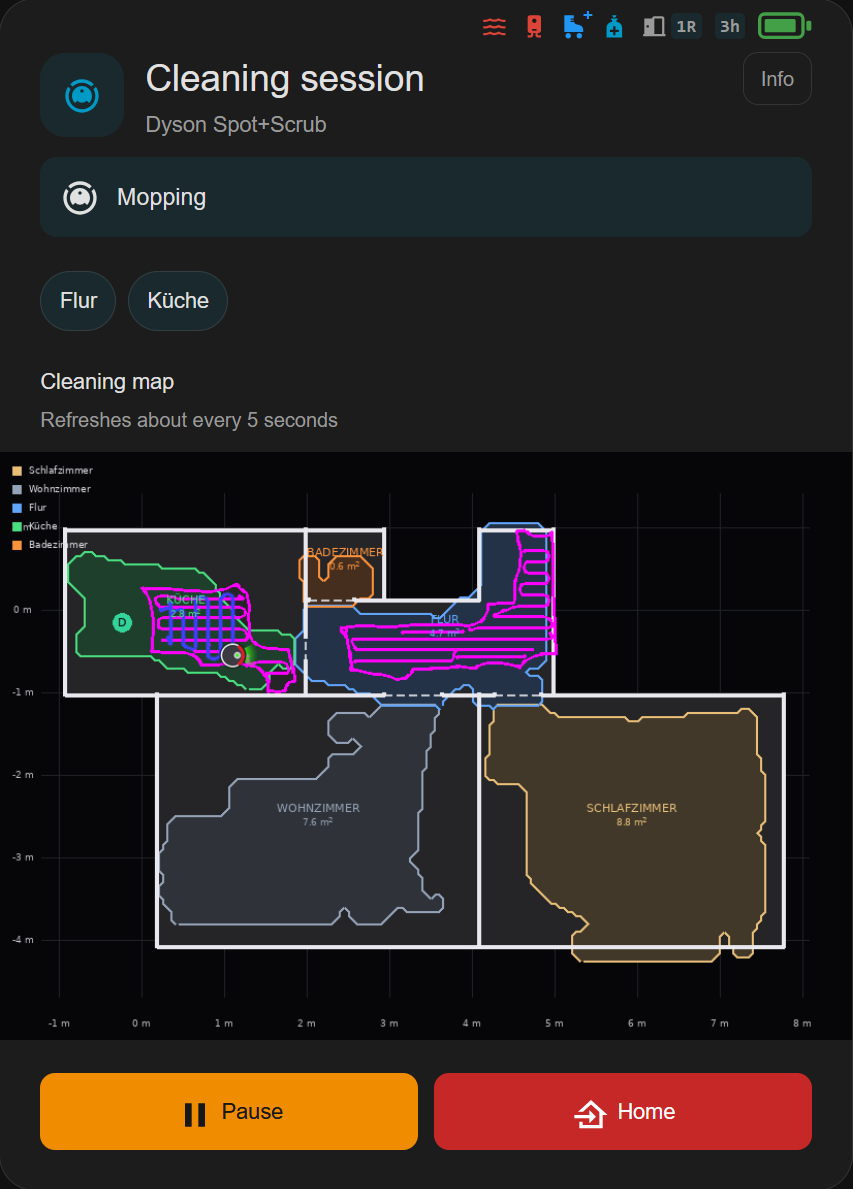
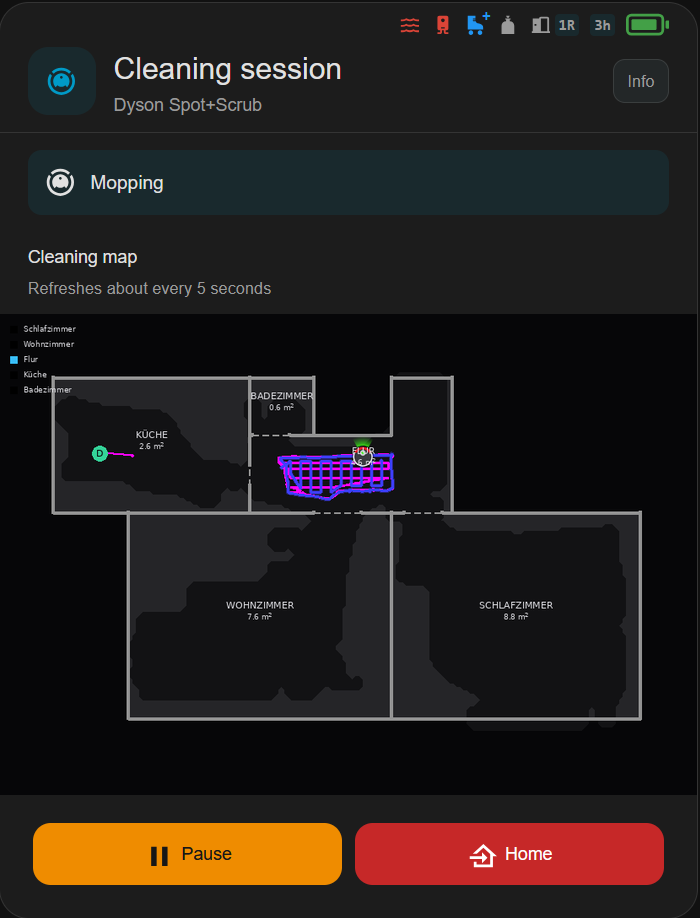
chore(release): prepare v1.4.0 with zone cleaning docs and screenshots

diff --git a/dist/dyson-cleaning-planner-card.js b/dist/dyson-cleaning-planner-card.js
@@ -1,4 +1,4 @@
-/* Dyson Cleaning Planner Card v1.3.0 | MIT */
+/* Dyson Cleaning Planner Card v1.4.0 | MIT */
 // English messages are also stable translation keys. Never use translated labels in action payloads.
 const en = {
   "Cleaning selection": "Cleaning selection",

diff --git a/README.md b/README.md
@@ -15,15 +15,17 @@
 </p>
 
 <p align="center">
-  Plan room cleaning, adjust each room's settings, and follow your Dyson's progress in Home Assistant.
+  Plan room or zone cleaning, adjust cleaning settings, and follow your Dyson's progress in Home Assistant.
 </p>
 
-**Version 1.3.0**
+**Version 1.4.0**
 
 ## Requirements
 
-- [Dyson Spot+Scrub integration by UNsync3D](https://github.com/UNsync3D/ha-dyson-spot-scrub), **v1.5.0 or newer**, installed and configured in Home Assistant.
+- [Dyson Spot+Scrub integration by UNsync3D](https://github.com/UNsync3D/ha-dyson-spot-scrub), **v2.1.0 or newer**, installed and configured in Home Assistant.
 - **Home Assistant Marketplace** for the recommended installation method on Home Assistant **2026.11 or newer**. On older versions, use [HACS](https://www.hacs.xyz/). Manual installation is also supported.
+
+For testing before integration v2.1.0 is released, use the matching [zone-cleaning integration branch](https://github.com/FutuRazor/ha-dyson-spot-scrub/tree/test/zone-cleaning). The regular v2.0.2 build does not provide zone cleaning.
 
 ## Screenshots
 
@@ -35,13 +37,18 @@
 <table>
   <tr>
     <td align="center"><img src="docs/images/planner-narrow.png" alt="Narrow Modern planner with settings expanded inside a room" width="300"><br>Narrow layout</td>
-    <td align="center"><img src="docs/images/cleaning-session.png" alt="Active mopping session with room badges, live map and Pause/Home controls" width="400"><br>Cleaning session</td>
+    <td align="center"><img src="docs/images/cleaning-session.png" alt="Active mopping session with live map and Pause/Home controls" width="400"><br>Cleaning session</td>
   </tr>
   <tr>
     <td align="center"><img src="docs/images/station-settings.png" alt="Station switches, preferences and dock action buttons" width="360"><br>Station settings</td>
     <td align="center"><img src="docs/images/consumables.png" alt="Consumable remaining-life bars and cleaning-solution availability" width="360"><br>Consumables</td>
   </tr>
 </table>
+
+<p align="center">
+  <img src="docs/images/zone-cleaning.png" alt="Zone planner with a movable rectangle and resize handle; Start is disabled while the mop roller is being washed" width="600">
+  <br>Zone cleaning — select a rectangle directly on the map
+</p>
 
 [Try the interactive preview](https://futurazor.github.io/dyson-cleaning-planner-card/preview/index.html). It uses simulated data; no robot is connected.
 
@@ -112,7 +119,7 @@ Update through Marketplace (or HACS on older Home Assistant versions), or replac
 
 ## Using the card
 
-### Plan a clean
+### Plan rooms
 
 In **Modern**, tap the circle to select a room; its number shows the selection order. Tap the room name, mode or arrow to open its settings without changing the selection. **Classic** remains available in the editor.
 
@@ -124,6 +131,14 @@ Changes stay in a local draft until you choose:
 - **Start clean** — start the selected rooms with your chosen settings.
 
 The trash icon beside **Local draft** discards unsaved changes. Reloading the card also clears the draft. Selected room IDs are sent in click order; the integration and robot execute the request. The display order configured in the editor is separate from this selection order.
+
+### Clean a zone
+
+Choose **Zone** below the header to clean a specific area instead of whole rooms. A blue rectangle appears on the map: drag it to move it and use the corner handle to resize it. The handle moves inward near the image edges so it stays reachable.
+
+The button beside Reload shows the current cleaning mode. Open it to choose **Vacuum**, **Vacuum and Mop**, **Mop**, or **Vacuum then Mop**, plus the relevant power, water level and repetitions. Settings stay local until **Start clean**. With **Vacuum then Mop**, **Mop repetitions** controls the wiping passes; vacuuming runs once.
+
+Switching between **Rooms** and **Zone** keeps your local plans. Reload fetches a fresh map and preserves the rectangle when the map and its coordinates are unchanged. Map rotation also applies to zone selection. One rectangular zone is supported at a time; zone cleaning has been hardware-tested on the Spot+Scrub AI, while other models still need confirmation.
 
 ### During and after cleaning
 
@@ -194,6 +209,7 @@ These options belong in the individual card's code editor, not in `configuration
 - The card relies on the integration for room data, robot status and supported actions. Room badges may show the request made from this card; they are not confirmed per-room progress.
 - On upgrade, cards without an explicit `theme` use Modern. Select Classic in the editor to retain the previous layout.
 - After changes to the robot's map, use **Refresh rooms** below the room order in the card editor if needed.
+- Zone selection needs a calibrated camera image from the matching integration. If the image cannot be verified, Start stays disabled. Reload the map; if the problem persists, check the integration version. Installing the regular integration instead of the zone-enabled build leaves the required map information missing.
 - If controls are unavailable, check the corresponding device and entities in Home Assistant and confirm that the required integration version is installed.
 
 

diff --git a/docs/integration-contract.md b/docs/integration-contract.md
@@ -1,8 +1,8 @@
-# Integration contract — card v1.3.0
+# Integration contract — card v1.4.0
 
-This document describes what the **current card actually reads and sends**, based on `src/core.js`, `src/card.js`, `src/editor.js` and `src/map.js`. It is a frontend contract, not a specification of Dyson's MQTT protocol or a guarantee about the integration's internal implementation.
+This document describes what the **current card actually reads and sends**, based on `src/core.js`, `src/card.js`, `src/editor.js`, `src/map.js`, `src/zone.js` and `src/zone-core.js`. It is a frontend contract, not a specification of Dyson's MQTT protocol or a guarantee about the integration's internal implementation.
 
-Both Modern and Classic use this same contract. The documented minimum integration version is **UNsync3D Dyson Spot+Scrub v1.5.0**; optional features require the corresponding entities/actions in the installed version.
+Both Modern and Classic use this same contract. The documented minimum integration version is **UNsync3D Dyson Spot+Scrub v2.1.0**; optional features require the corresponding entities/actions in the installed version.
 
 ## 1. Dependency overview
 
@@ -379,3 +379,29 @@ Cleaning solution displays Ready to use / Refill required; its Enabled/Disabled 
 6. Verify missing optional entities degrade individually. In particular, unavailable registered drying sensors must not resurrect legacy values, and button `unknown` must remain valid.
 7. Check camera proxy images, battery, consumable usage direction, station option updates and dock button availability.
 8. Test concurrent external changes and map changes in the integration. The frontend cannot guarantee transactional updates across the Dyson app, automations or other browsers.
+
+
+## Zone cleaning (v1.4.0)
+
+The planned minimum integration release is v2.1.0. Until it is published with
+zone support, use the matching integration test branch.
+
+- The configured vacuum must expose `map_id` and `ready_to_start: true`.
+- The same-device camera must expose `map_calibration`: version 1, `map_id`,
+  units `m`, positive `image_width`, `image_height`, `pixels_per_metre`,
+  nonnegative `padding`, finite `min_x` and `max_y`, and `image_sha256`.
+- The camera proxy must return the original PNG. The card removes width/height
+  query parameters and verifies the dimensions and SHA-256 before use.
+- `dyson_spot_scrub.clean_zone` receives one `entity_id`, the matching `map_id`,
+  and `rectangle: [x_min, y_min, x_max, y_max]` in robot metres.
+- Settings: `clean_type` is `vacuum`, `vacuumAndMop`, `mop` or `vacuumThenMop`;
+  `cleaning_strategy` is `auto`, `boost`, `quiet` or `quick`; `water_level` is
+  `veryLow`, `low`, `medium` or `high`. The card uses `auto` for Mop and `low`
+  for Vacuum's unused water setting.
+- `mop_passes` is 1 or 2 in every mode; `dry_passes` stays at 1. This mapping
+  follows Spot+Scrub hardware tests. In Vacuum then Mop, repetitions affect
+  only mopping. Other models require separate verification.
+- All zone settings stay local until Start. No room preferences are written,
+  and failed commands are not automatically retried.
+
+See [zone cleaning details](zone-cleaning.md) for geometry and validation.

diff --git a/CHANGELOG.md b/CHANGELOG.md
@@ -1,5 +1,18 @@
 # Changelog
 
+## v1.4.0
+
+- Add Rooms and Zone planning tabs with independent local drafts.
+- Select one movable, resizable rectangle on a verified camera snapshot, including rotated maps and touch controls.
+- Add zone settings for all four cleaning modes, vacuum power, water level and repetitions. Vacuum then Mop exposes mop repetitions and keeps one vacuum pass.
+- Use the Spot+Scrub hardware-verified repetition counter, including two-pass vacuum zone cleaning.
+- Keep the resize handle reachable at image edges and preserve scrolling during map selection.
+- Require matching map calibration and robot readiness before sending a single zone-start action.
+- Normalize build line endings for reproducible Windows/Linux bundles.
+- Refresh planner/session screenshots, add a zone screenshot, and set the planned minimum integration version to v2.1.0.
+
+Release preparation: confirm the upstream integration v2.1.0 release contains the zone action and calibration before publishing. Other models still need hardware confirmation.
+
 ## v1.3.0
 
 - Add English and German translations for the card, visual editor, station settings, consumables, status messages and tooltips.

diff --git a/TESTING.md b/TESTING.md
@@ -1,4 +1,14 @@
-# Testing v1.3.0
+# Testing v1.4.0
+
+## v1.4.0 release acceptance
+
+- Run `npm run check` and `node tests/zone-browser.mjs`; verify the compiled bundle is reproducible.
+- Verify Rooms/Zone draft retention, rotated-map selection, edge-aware resize handles, touch input and fixed-height scrolling.
+- Check all modes and their relevant settings, English/German repetition labels, and one service call only when Start is pressed.
+- Reject missing/mismatched calibration, changed map IDs, a foreign camera and unavailable start readiness.
+- Maintainer hardware tests confirmed vacuum zone cleaning, selection at 270° on iPhone and zones spanning two rooms. Further tests confirmed two vacuum passes with `mop_passes: 2`, and one vacuum pass followed by two mop passes in Vacuum then Mop.
+- `dry_passes: 2` did not produce a second vacuum pass on the tested Spot+Scrub AI; the card keeps it at 1.
+- Before release, confirm integration v2.1.0 includes the matching zone action and calibration. Do not infer support for untested models.
 
 ## v1.3.0 release acceptance
 
